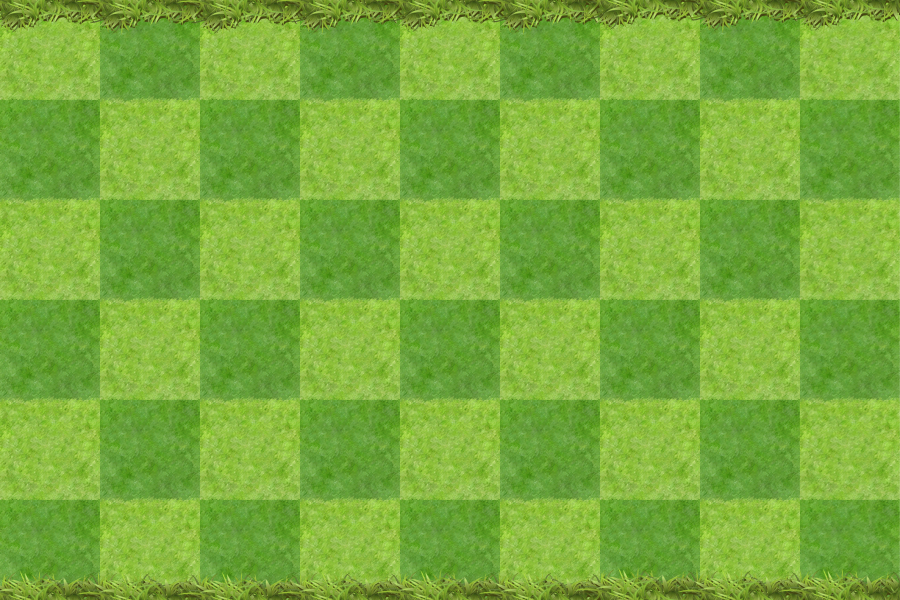
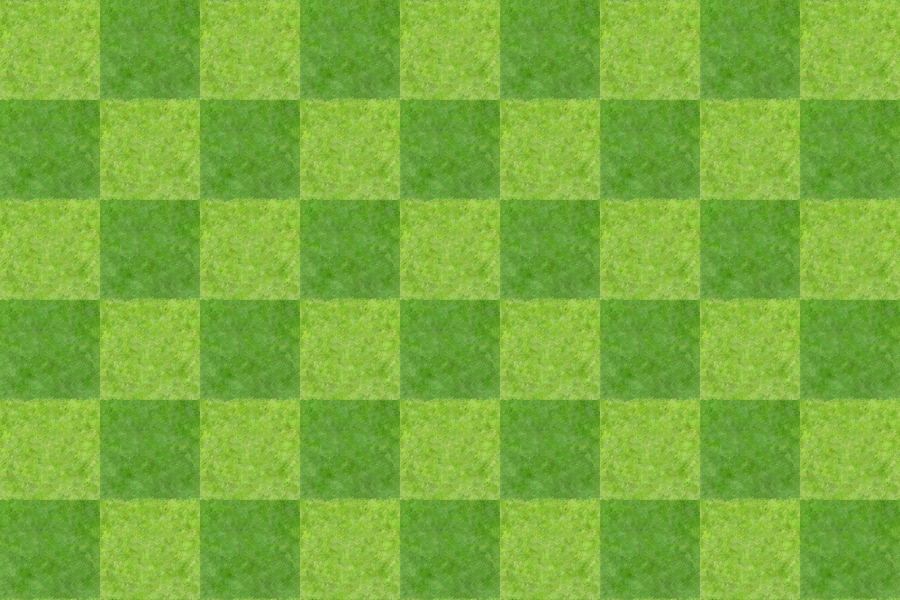
Cambios graficos

Changed region(s): [[0.0, 0.96, 1.0, 1.0], [0.0, 0.0, 1.0, 0.06]]

diff --git a/src/jardin/JardinGrafico.java b/src/jardin/JardinGrafico.java
@@ -31,7 +31,7 @@ public class JardinGrafico {
 			e.printStackTrace();
 		}
 		panelGrafico = new JLayeredPane();
-		panelGrafico.setBounds(110, 115, Integer.parseInt(config.getProperty("width")), Integer.parseInt(config.getProperty("heigth")));		
+		panelGrafico.setBounds(110, 96, Integer.parseInt(config.getProperty("width")), Integer.parseInt(config.getProperty("heigth")));		
 		panelGrafico.setLayout(null);		
 		panelGrafico.setOpaque(false);
 		ImageIcon img= imagenEscalada(config.getProperty("fondo_"+modoJuego), panelGrafico.getWidth(), panelGrafico.getHeight());

diff --git a/src/gui/GUI.java b/src/gui/GUI.java
@@ -241,7 +241,7 @@ public class GUI extends JFrame {
 			public void mouseClicked(MouseEvent e) {								
 				if(runJuego) {
 					Point insert = e.getPoint();
-					insert.setLocation(insert.getX()-110, insert.getY()-115);
+					insert.setLocation(insert.getX()-110, insert.getY()-97);
 					if(indexPlanta >= 0) {
 						crearPlanta(insert);
 						accionPala = false;						
